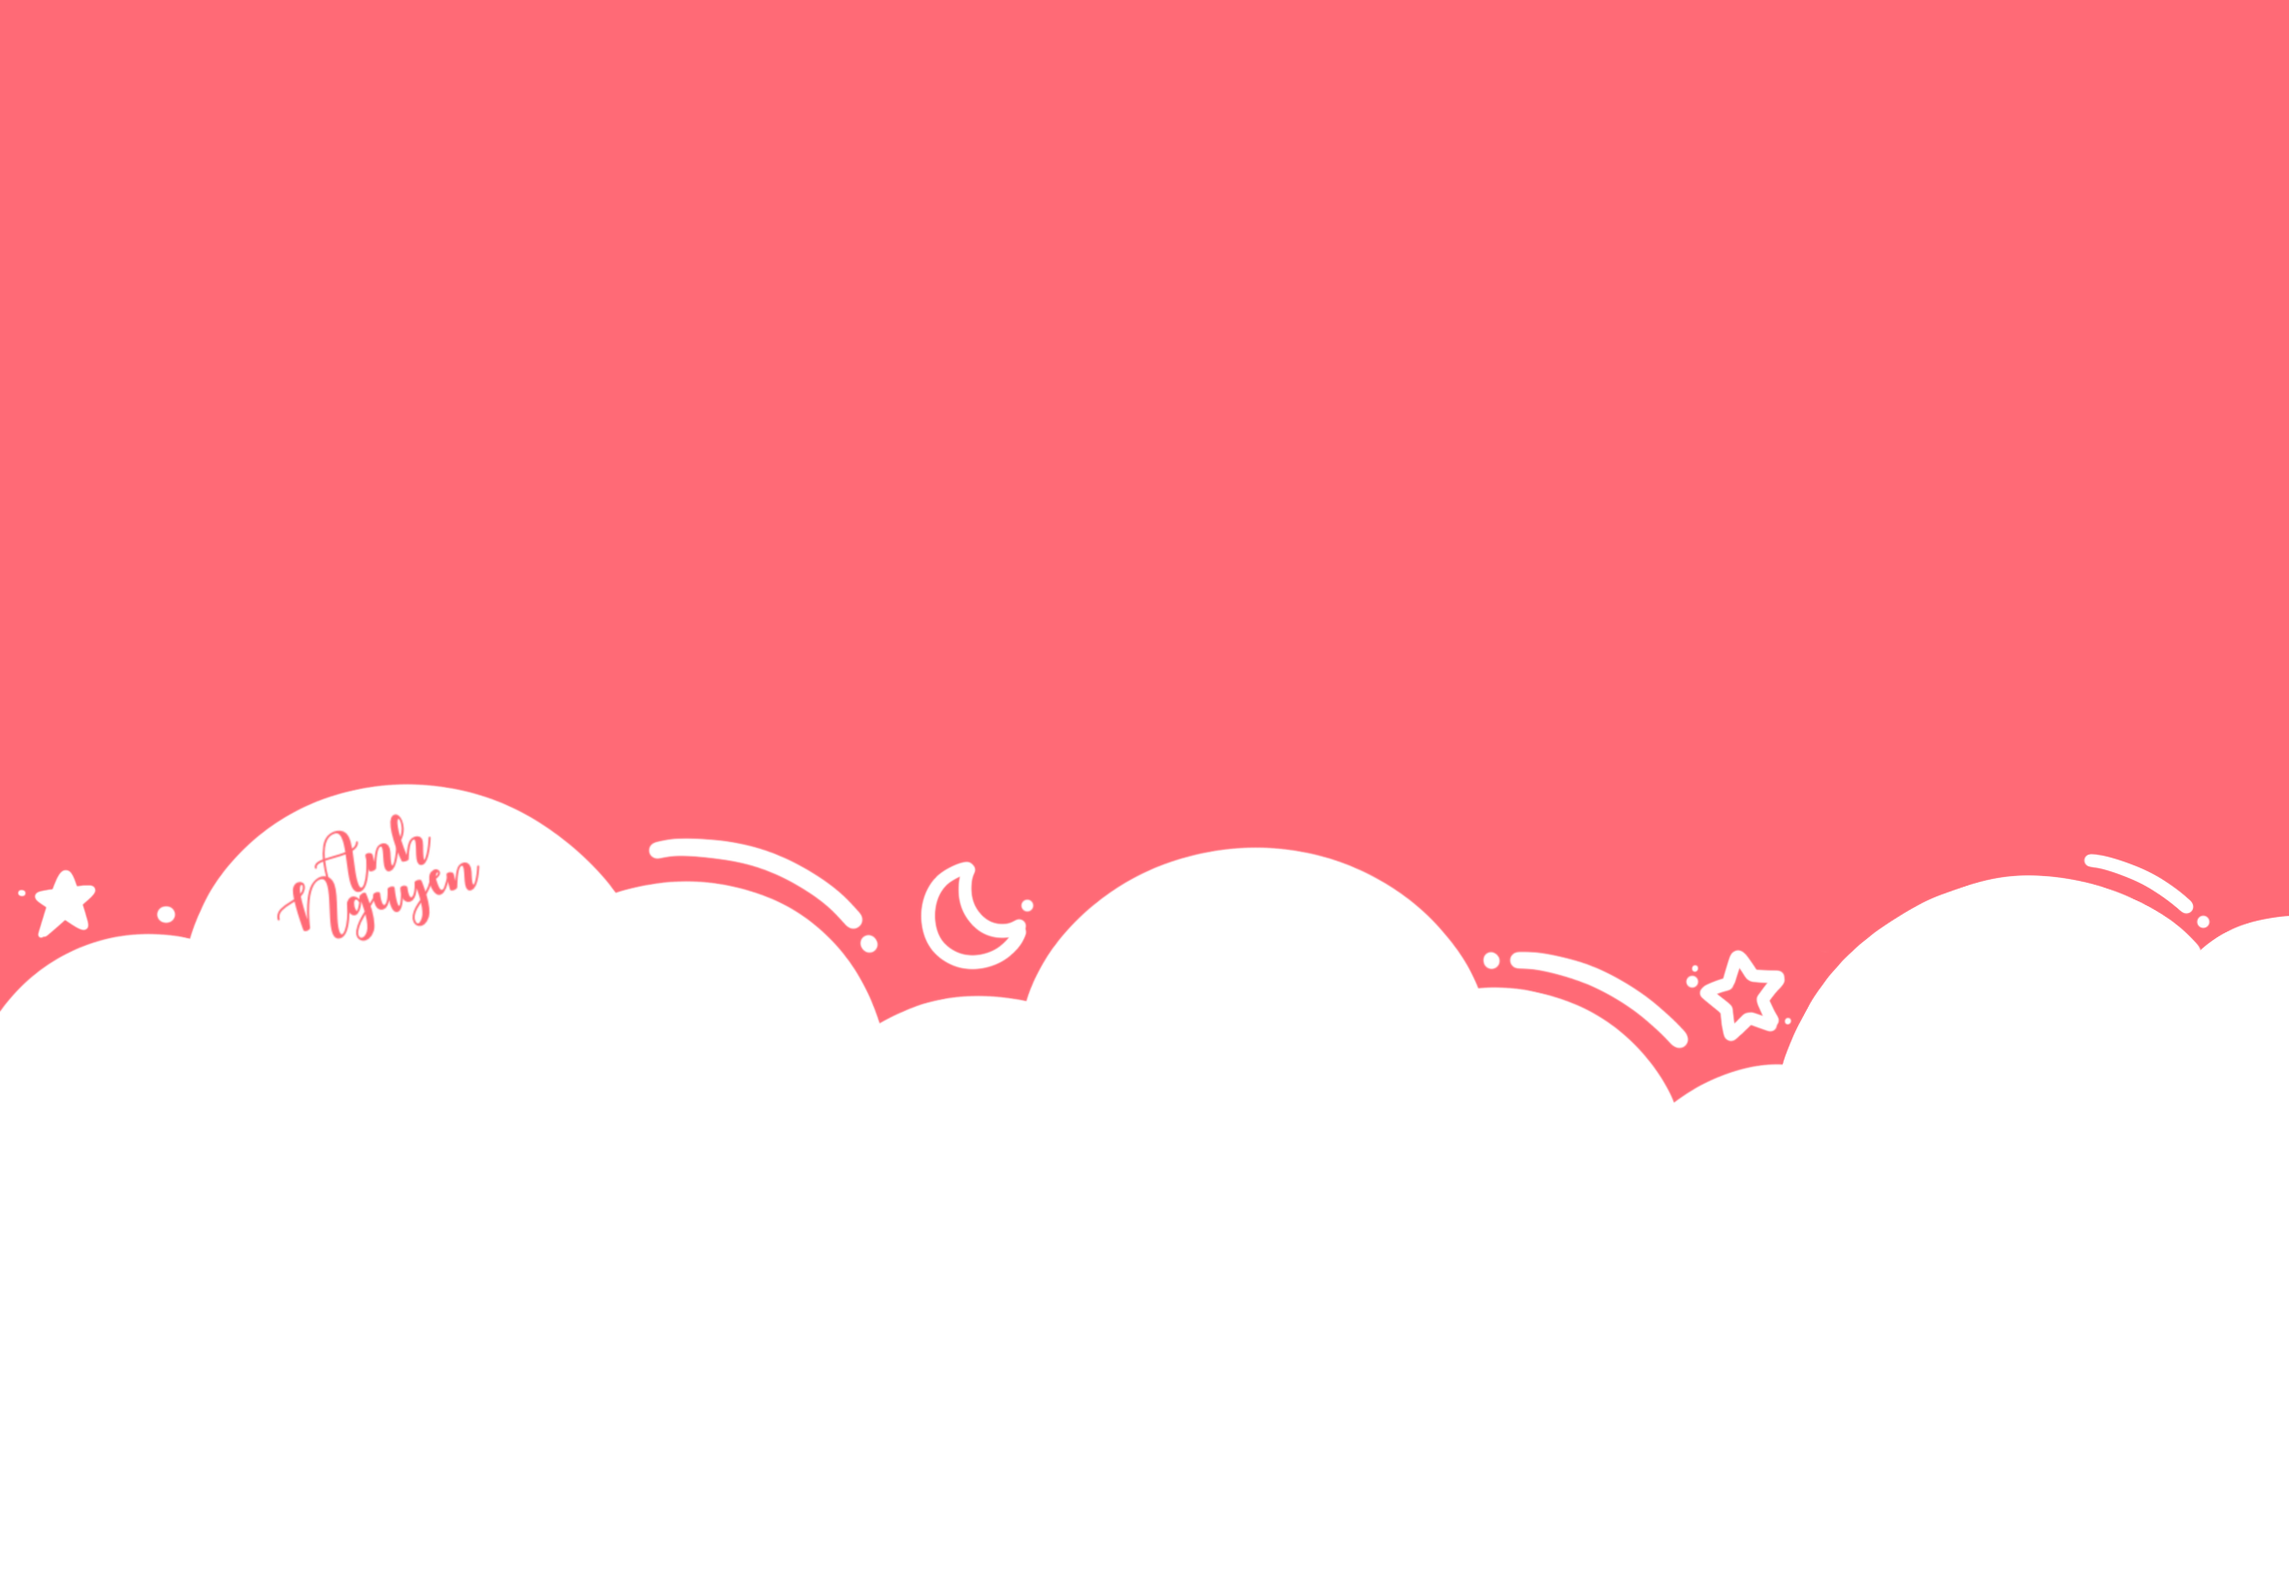
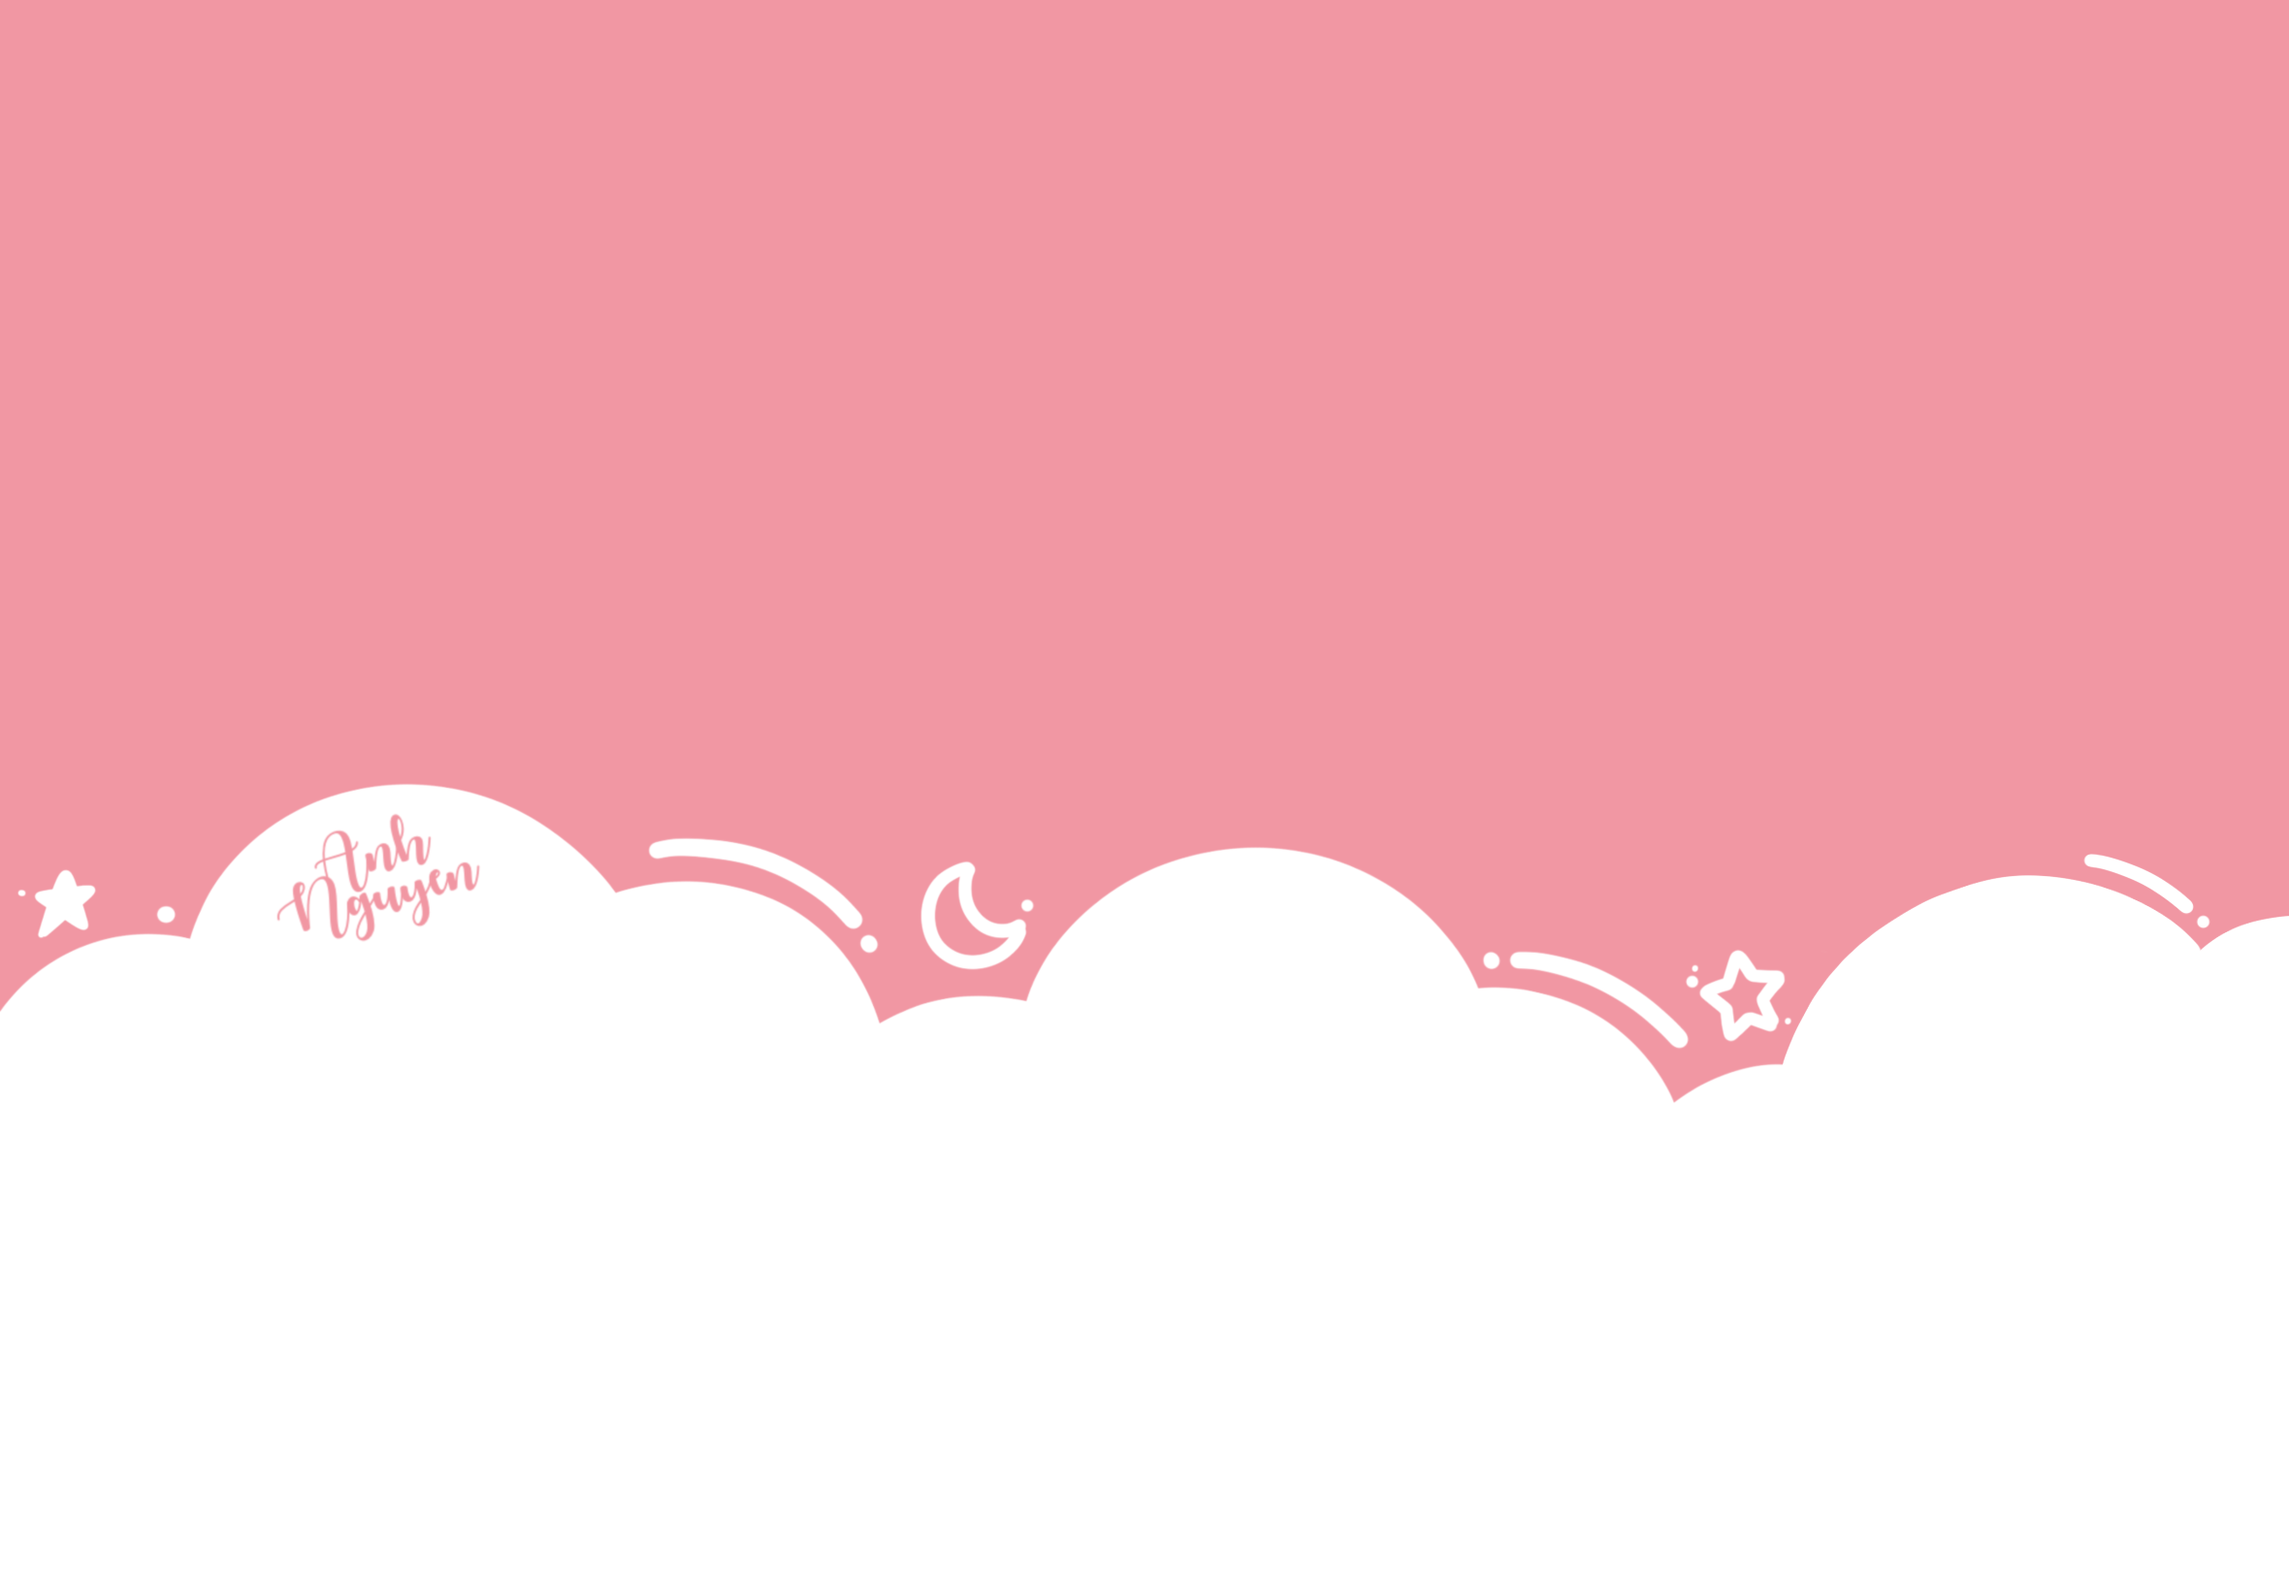
fix layout

diff --git a/index.html b/index.html
@@ -38,6 +38,7 @@
     </nav>
 
     <!--WELCOME SECTION-->
+    <!-- No clues what to do with this page -->
     <!-- <div id="section1" class="container-fluid" style="padding: 100px 20px;">
         <h1 style="text-align: center;">WELCOME</h1>
     </div> -->
@@ -339,7 +340,7 @@
                 <img src="assets/game.png" style="width: 50%;">
             </div>
             <div class="col-3">
-                <p style="font-family: 'Montserrat', sans-serif; font-size: larger;">ROCK PAPER SCISSORS GAME</p>
+                <p style="font-family: 'Montserrat', sans-serif; font-size: larger;"><strong>ROCK PAPER SCISSORS GAME</strong></p>
                 <p style="font-family: 'Open Sans', sans-serif; font-size: medium;">A mini game using HTML5/CSS3 and
                     Phaser 2 JS Library. Illustration designs by me.</p>
                 <a href="https://nside.guru/rps-anhnguyen" style="font-size: medium; color: white;"
@@ -349,7 +350,7 @@
                 <img src="assets/game.png" style="width: 50%;">
             </div>
             <div class="col-3">
-                <p style="font-family: 'Montserrat', sans-serif; font-size: larger;">BURGER GAME</p>
+                <p style="font-family: 'Montserrat', sans-serif; font-size: larger;"><strong>BURGER GAME</strong></p>
                 <p style="font-family: 'Open Sans', sans-serif; font-size: medium;">A mini game is colaborated with my
                     friend, using HTML5/CSS3 and Phaser 3 JS Library. This version is totally different to the previous
                     version. Artworks are designed by me as always.</p>
@@ -360,7 +361,7 @@
                 <img src="assets/mobile-app.png" style="width: 50%;">
             </div>
             <div class="col-3">
-                <p style="font-family: 'Montserrat', sans-serif; font-size: larger;">SMOOTHIE ORDER APP</p>
+                <p style="font-family: 'Montserrat', sans-serif; font-size: larger;"><strong>SMOOTHIE ORDER APP</strong></p>
                 <p style="font-family: 'Open Sans', sans-serif; font-size: medium;">In processing...</p>
             </div>
         </div>
@@ -393,7 +394,8 @@
             </div>
             <div class="col-4 text-end">
                 <h3>GITHUB</h3>
-                <a href="https://github.com/anhnguyen148" target="_blank"><img class="mt-5" src="assets/git-logo.png" style="width: 15%;"></a>
+                <a href="https://github.com/anhnguyen148" target="_blank"><img class="mt-5 mb-3" src="assets/git-logo.png" style="width: 15%;"></a>
+                <br><a href="https://github.com/anhnguyen148/foxtrot" style="color: white;">REPO this page</a>
             </div>
         </div>
     </div>
@@ -401,8 +403,6 @@
 
     <script src='https://cdnjs.cloudflare.com/ajax/libs/jquery/3.6.0/jquery.min.js'></script>
     <script src='https://cdnjs.cloudflare.com/ajax/libs/jqueryui/1.12.1/jquery-ui.min.js'></script>
-    <script src="https://cdnjs.cloudflare.com/ajax/libs/font-awesome/5.10.0/css/all.min.css"></script>
-    <script src="https://unpkg.com/fullpage.js/dist/fullpage.min.js"></script>
     <script src="https://cdn.jsdelivr.net/npm/bootstrap@5.2.3/dist/js/bootstrap.bundle.min.js"></script>
     <script src="index.js"></script>
 </body>

diff --git a/style.css b/style.css
@@ -14,7 +14,7 @@ body {
 
 #section2 {
     height: 100vh;
-    background-color: #fffafb;
+    background-color: #fef2f5;
 }
 
 #section3 {
@@ -169,7 +169,7 @@ h4 {
 }
 
 .progress.html .progress-bar {
-    border-color: #ff6a76;
+    border-color: #f197a3;
 }
 
 .progress.html .progress-left .progress-bar {
@@ -177,7 +177,7 @@ h4 {
 }
 
 .progress.python .progress-bar {
-    border-color: #ff6a76;
+    border-color: #f197a3;
 }
 
 .progress.python .progress-left .progress-bar {
@@ -185,7 +185,7 @@ h4 {
 }
 
 .progress.js .progress-bar {
-    border-color: #ff6a76;
+    border-color: #f197a3;
 }
 
 .progress.js .progress-left .progress-bar {
@@ -193,7 +193,7 @@ h4 {
 }
 
 .progress.mysql .progress-bar {
-    border-color: #ff6a76;
+    border-color: #f197a3;
 }
 
 .progress.mysql .progress-left .progress-bar {
@@ -201,7 +201,7 @@ h4 {
 }
 
 .progress.cascade .progress-bar {
-    border-color: #ff6a76;
+    border-color: #f197a3;
 }
 
 .progress.cascade .progress-left .progress-bar {
@@ -209,7 +209,7 @@ h4 {
 }
 
 .progress.procreate .progress-bar {
-    border-color: #ff6a76;
+    border-color: #f197a3;
 }
 
 .progress.procreate .progress-left .progress-bar {
@@ -292,7 +292,7 @@ h4 {
     font-family: 'Montserrat', sans-serif;
     font-weight: bold;
     font-size: larger;
-    color: #ff6a76;
+    color: #604f6f;
 }
 
 #description {
